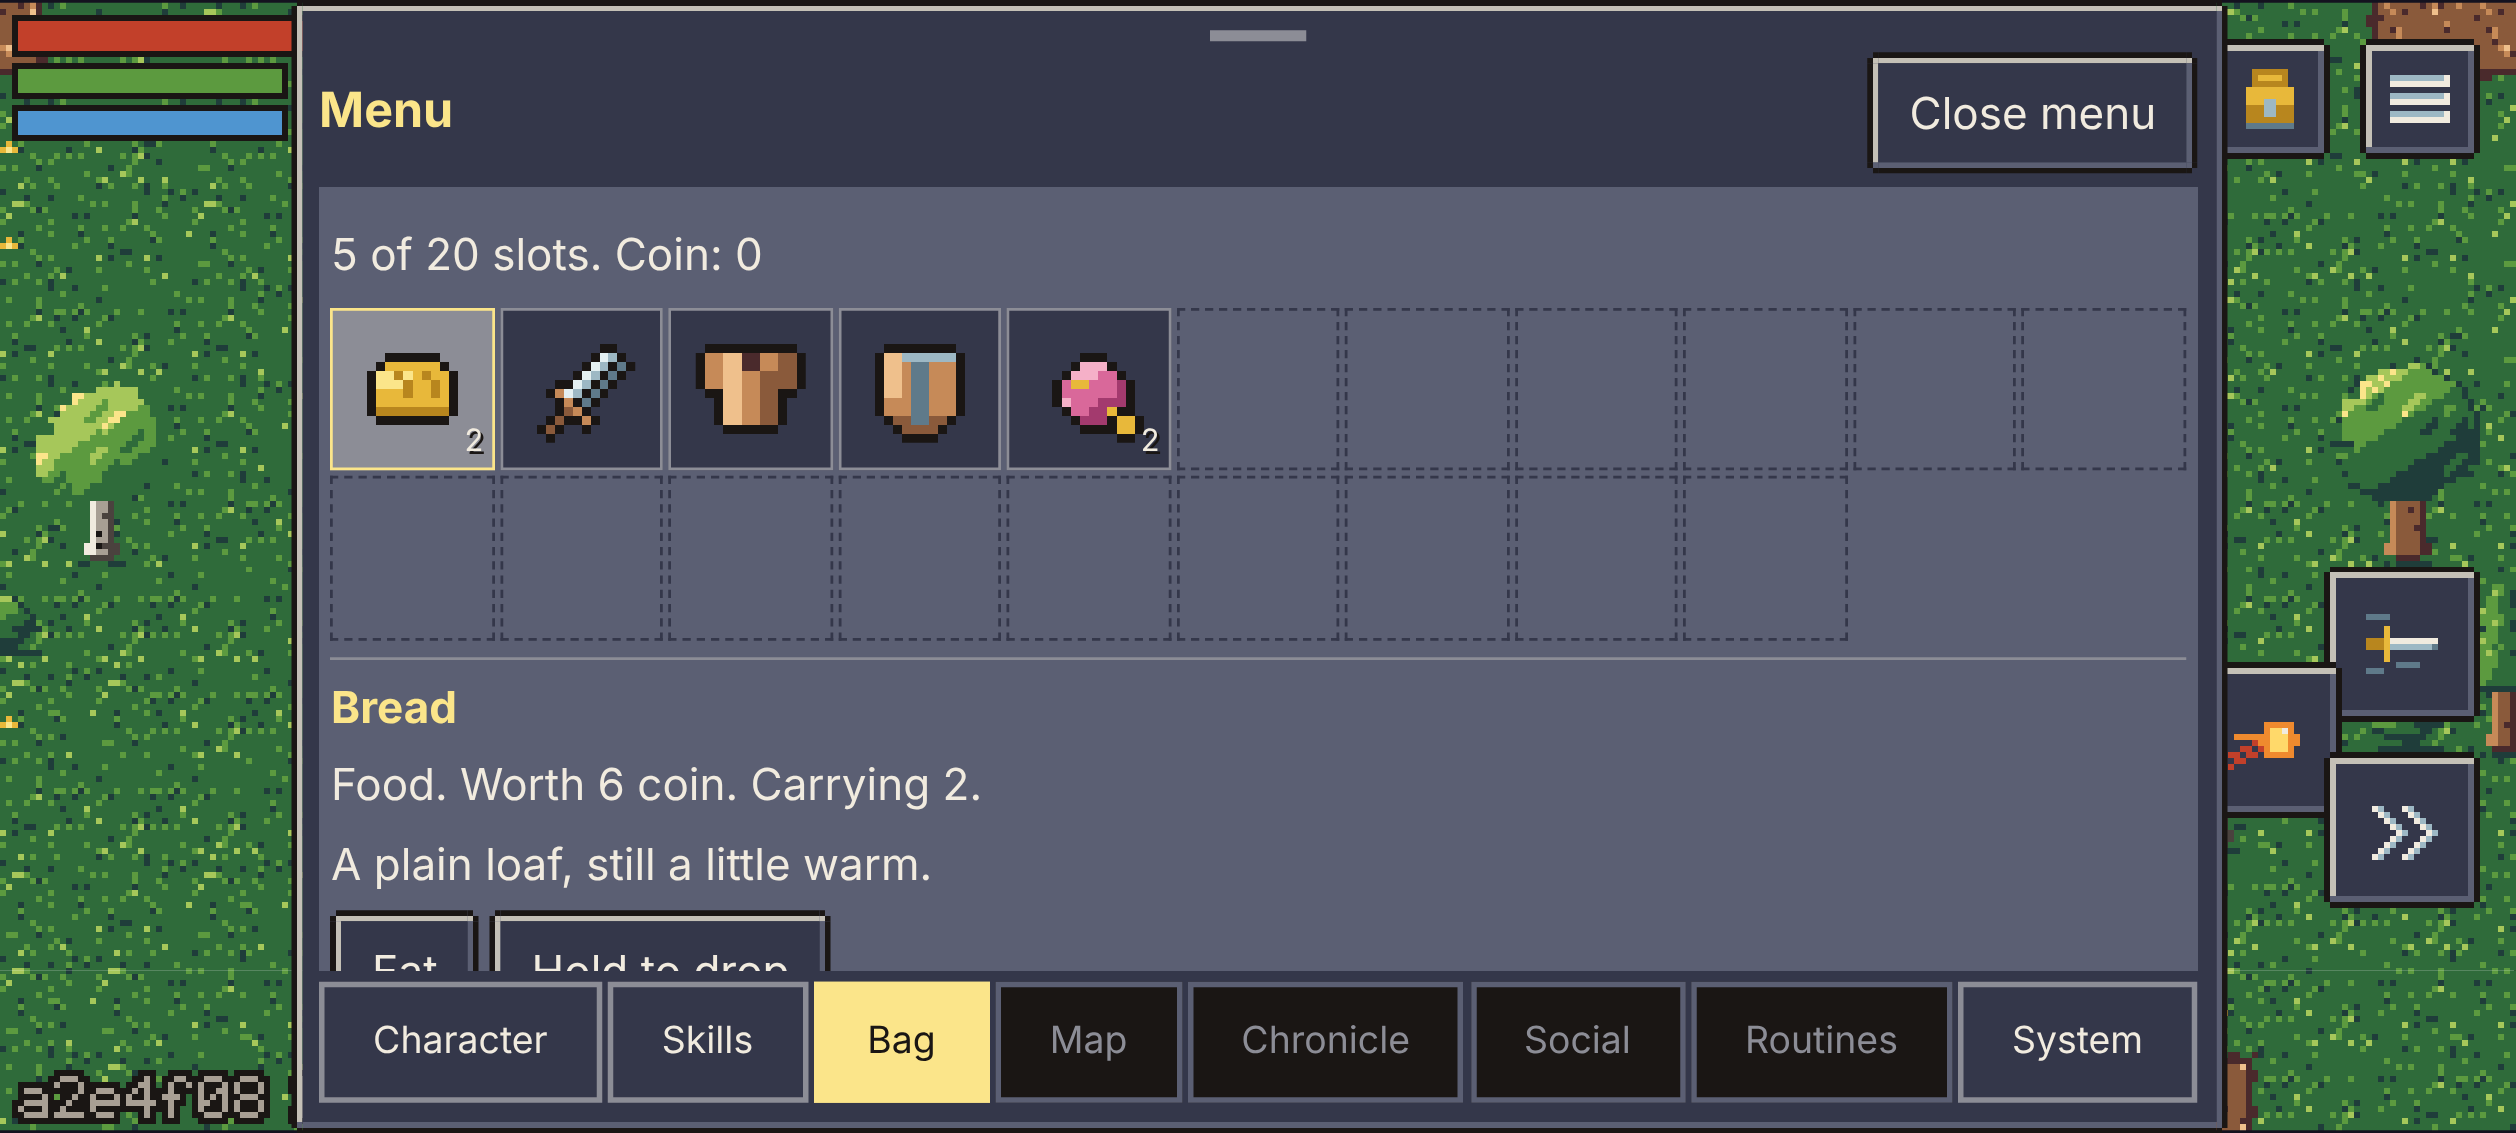
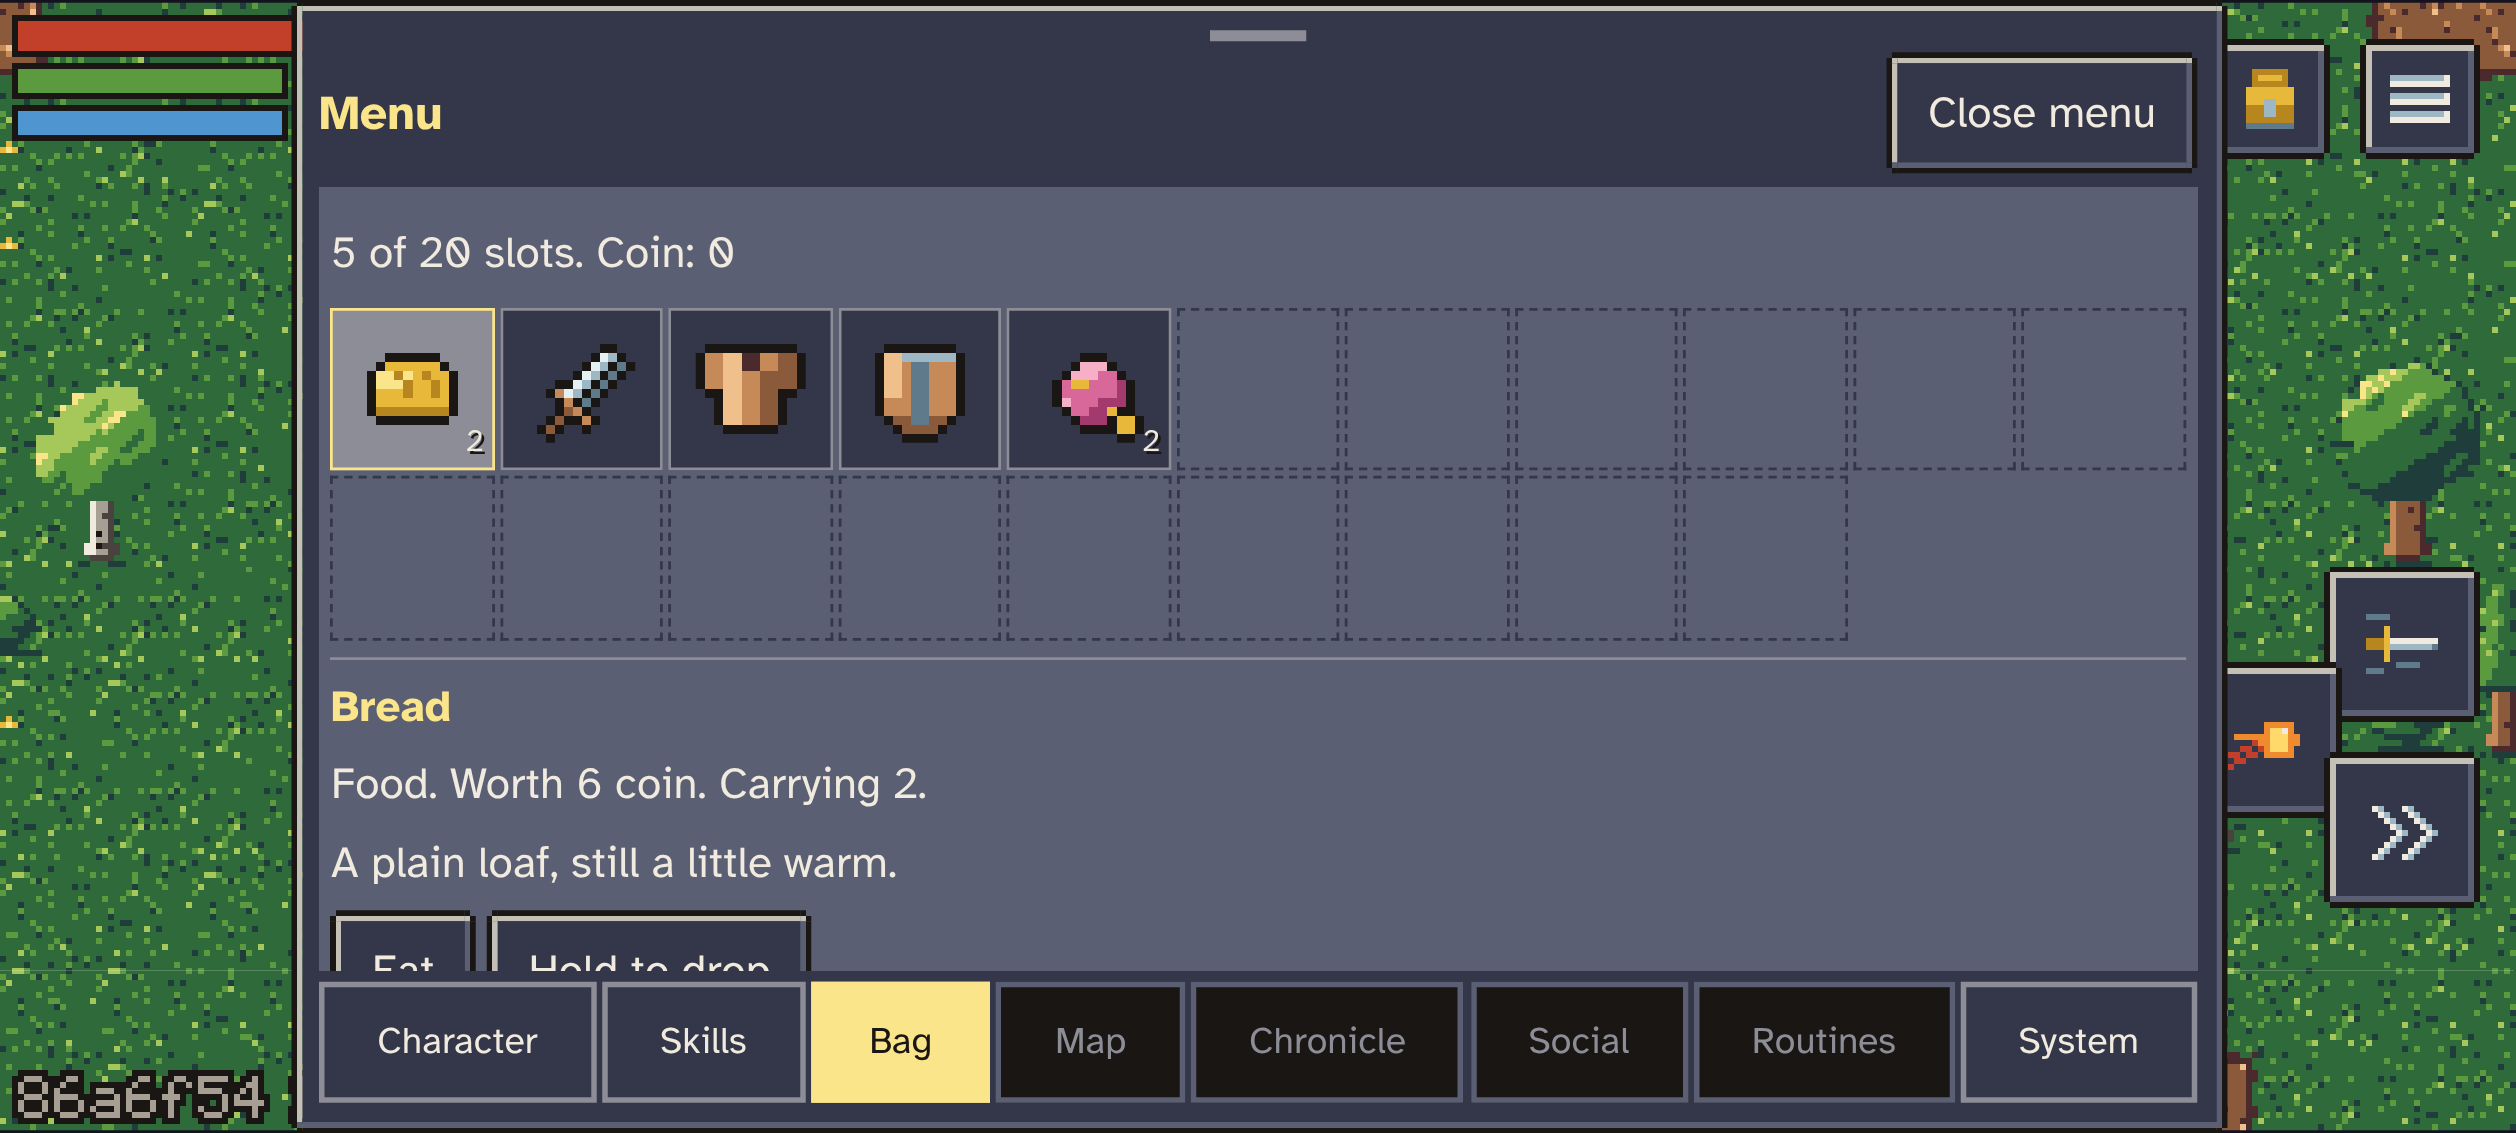
Bundle Atkinson Hyperlegible for clear text
Two Latin subset weights (about 35 KB) with the OFL license, from the fontsource package,
used first in the clear text stack with the system fonts as fallback. Owner approved as an
exception to no external art. Pixel font is unchanged.

Claude-Session: https://claude.ai/code/session_01C2rw6zcBxcmritjngjfeXX

diff --git a/tests/unit/fonts.test.ts b/tests/unit/fonts.test.ts
@@ -1,0 +1,48 @@
+import { readFileSync, statSync } from 'node:fs';
+import { join } from 'node:path';
+import { describe, expect, it } from 'vitest';
+import { SECURITY_HEADERS } from '../../src/shared/headers';
+
+const dir = join(process.cwd(), 'src/assets/fonts');
+const css = readFileSync(join(process.cwd(), 'src/style.css'), 'utf8');
+const FILES = ['atkinson-hyperlegible-400.woff2', 'atkinson-hyperlegible-700.woff2'];
+
+describe('bundled clear text font', () => {
+  it('ships both weights as real woff2 files, small enough to be cheap', () => {
+    let total = 0;
+    for (const f of FILES) {
+      const bytes = readFileSync(join(dir, f));
+      expect(bytes.subarray(0, 4).toString('latin1'), f).toBe('wOF2');
+      total += statSync(join(dir, f)).size;
+    }
+    expect(total).toBeLessThan(60 * 1024);
+  });
+  it('ships the OFL license text and the copyright line with it', () => {
+    const lic = readFileSync(join(dir, 'OFL.txt'), 'utf8');
+    expect(lic).toContain('SIL OPEN FONT LICENSE Version 1.1');
+    expect(lic).toContain('Braille Institute of America');
+    const readme = readFileSync(join(dir, 'README.md'), 'utf8');
+    expect(readme).toContain('SIL Open Font License');
+    expect(readme).not.toContain('—');
+  });
+  it('is declared for both weights from our own files, with no outside host', () => {
+    for (const f of FILES) expect(css).toContain(`./assets/fonts/${f}`);
+    expect(css).toMatch(/font-weight: 400/);
+    expect(css).toMatch(/font-weight: 700/);
+    expect(css).not.toMatch(/https?:\/\//);
+    expect(css).not.toContain('fonts.googleapis');
+  });
+  it('is first in the clear text stack, with the system fonts behind it', () => {
+    const m = /\.ui-root \{[^}]*font-family:\s*([^;]+);/s.exec(css);
+    expect(m, 'ui-root font stack').not.toBeNull();
+    const stack = (m as RegExpExecArray)[1] as string;
+    expect(stack.trim().startsWith("'Atkinson Hyperlegible'")).toBe(true);
+    expect(stack).toContain('system-ui');
+    expect(stack).toContain('sans-serif');
+  });
+  it('needs no change to the CSP: fonts fall under default-src self', () => {
+    const csp = SECURITY_HEADERS['Content-Security-Policy'] as string;
+    expect(csp).toContain("default-src 'self'");
+    expect(csp).not.toContain('font-src');
+  });
+});

diff --git a/tests/e2e/menu.spec.ts b/tests/e2e/menu.spec.ts
@@ -333,3 +333,25 @@ test('the Menu keeps the keyboard, and the game does not move under it', async (
   await page.keyboard.press('Escape');
   await expect(menu(page)).toBeHidden();
 });
+
+test('clear text uses the bundled font, loaded from our own origin', async ({ page }) => {
+  const problems = await watchProblems(page);
+  const fontFiles: string[] = [];
+  page.on('response', (r) => {
+    if (r.url().endsWith('.woff2')) fontFiles.push(new URL(r.url()).origin);
+  });
+  await boot(page);
+  await openMenu(page);
+  await goTab(page, 'skills');
+  await expect
+    .poll(() => page.evaluate(() => document.fonts.check('1rem "Atkinson Hyperlegible"')))
+    .toBe(true);
+  const family = await page
+    .locator('.pow-menu-body')
+    .evaluate((n) => getComputedStyle(n).fontFamily);
+  expect(family.startsWith('"Atkinson Hyperlegible"')).toBe(true);
+  expect(fontFiles.length).toBeGreaterThan(0);
+  expect(new Set(fontFiles)).toEqual(new Set([new URL(page.url()).origin]));
+  await shot(page, 'menu-skills-font');
+  expect(problems).toEqual({ console: [], pageErrors: [], csp: [], failedRequests: [] });
+});

diff --git a/src/style.css b/src/style.css
@@ -1,3 +1,20 @@
+/* Clear text font: Atkinson Hyperlegible, bundled (see src/assets/fonts/README.md). Same origin, so
+   the CSP (default-src 'self') allows it. The system stack below is the fallback. */
+@font-face {
+  font-family: 'Atkinson Hyperlegible';
+  font-style: normal;
+  font-weight: 400;
+  font-display: swap;
+  src: url('./assets/fonts/atkinson-hyperlegible-400.woff2') format('woff2');
+}
+@font-face {
+  font-family: 'Atkinson Hyperlegible';
+  font-style: normal;
+  font-weight: 700;
+  font-display: swap;
+  src: url('./assets/fonts/atkinson-hyperlegible-700.woff2') format('woff2');
+}
+
 html,
 body {
   margin: 0;
@@ -77,6 +94,7 @@ canvas {
   box-sizing: border-box;
   pointer-events: none;
   font-family:
+    'Atkinson Hyperlegible',
     system-ui,
     -apple-system,
     'Segoe UI',

diff --git a/src/demo/world.ts b/src/demo/world.ts
@@ -168,6 +168,9 @@ export async function startWorldDemo(canvas: HTMLCanvasElement): Promise<void> {
 
   const probe = document.getElementById('safe-probe');
   if (!probe) throw new Error('safe-area probe missing');
+  // Fetch the clear text font now, so the Menu does not flash in the fallback the first time.
+  void document.fonts?.load('400 1rem "Atkinson Hyperlegible"');
+  void document.fonts?.load('700 1rem "Atkinson Hyperlegible"');
   // The DOM layer: the Menu and anything else read as clear text.
   const root = createOverlay();
   applyPaletteVars(document.documentElement);

diff --git a/src/assets/fonts/README.md b/src/assets/fonts/README.md
@@ -1,0 +1,14 @@
+# Bundled fonts
+
+**Atkinson Hyperlegible**, Latin subset, regular (400) and bold (700). Used for clear text only
+(Menu, descriptions, anything read as sentences). The pixel font is drawn from data in
+`src/content/fonts` and is not a file.
+
+- Designed by the Braille Institute of America, Inc. Licensed under the SIL Open Font License 1.1.
+  The full text and copyright line are in `OFL.txt` and must ship with the fonts.
+- Source: the `@fontsource/atkinson-hyperlegible` 5.3.0 npm package (`files/*-latin-400-normal.woff2`
+  and `*-latin-700-normal.woff2`). Copied here unmodified. It is not an npm dependency of the game.
+- The OFL allows bundling and use in a commercial game. The files must not be sold on their own,
+  and a modified copy must not use the reserved font name.
+- Approved by the owner on 2026-11-17 as an exception to "no external art" in CLAUDE.md.
+- Other scripts (Cyrillic, Greek and so on) are not included. They fall back to the system font.
